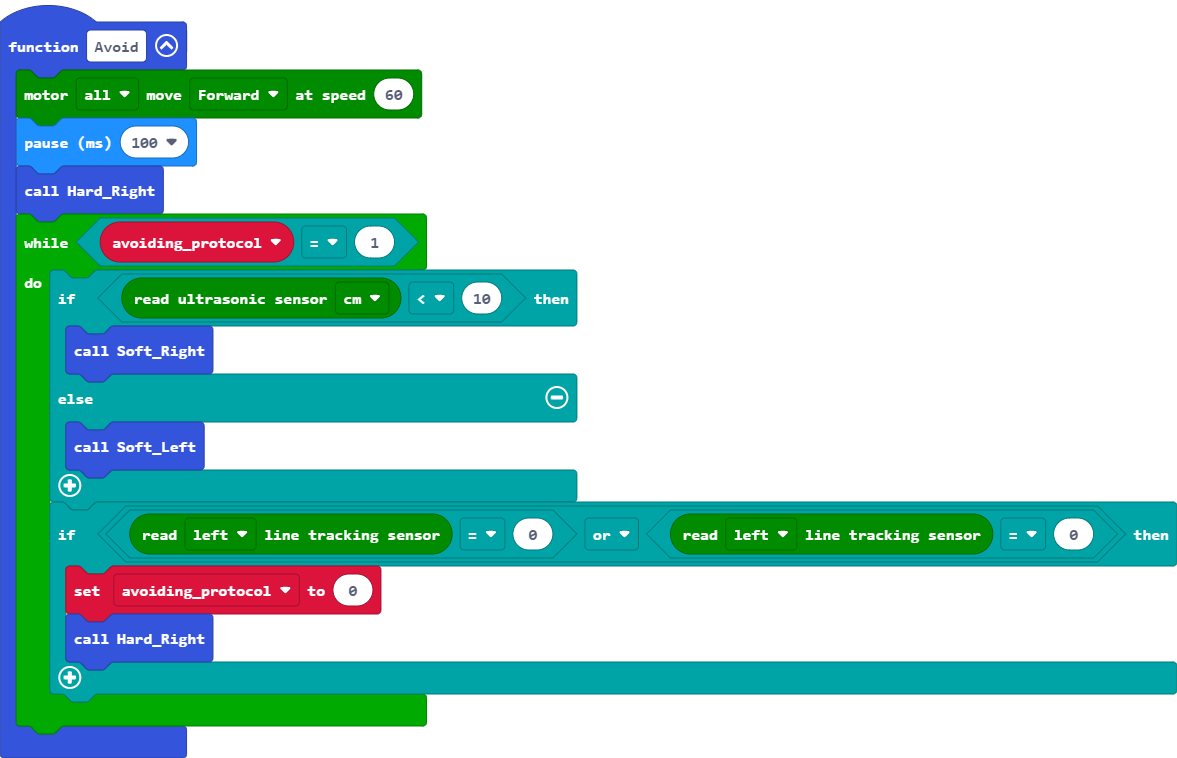
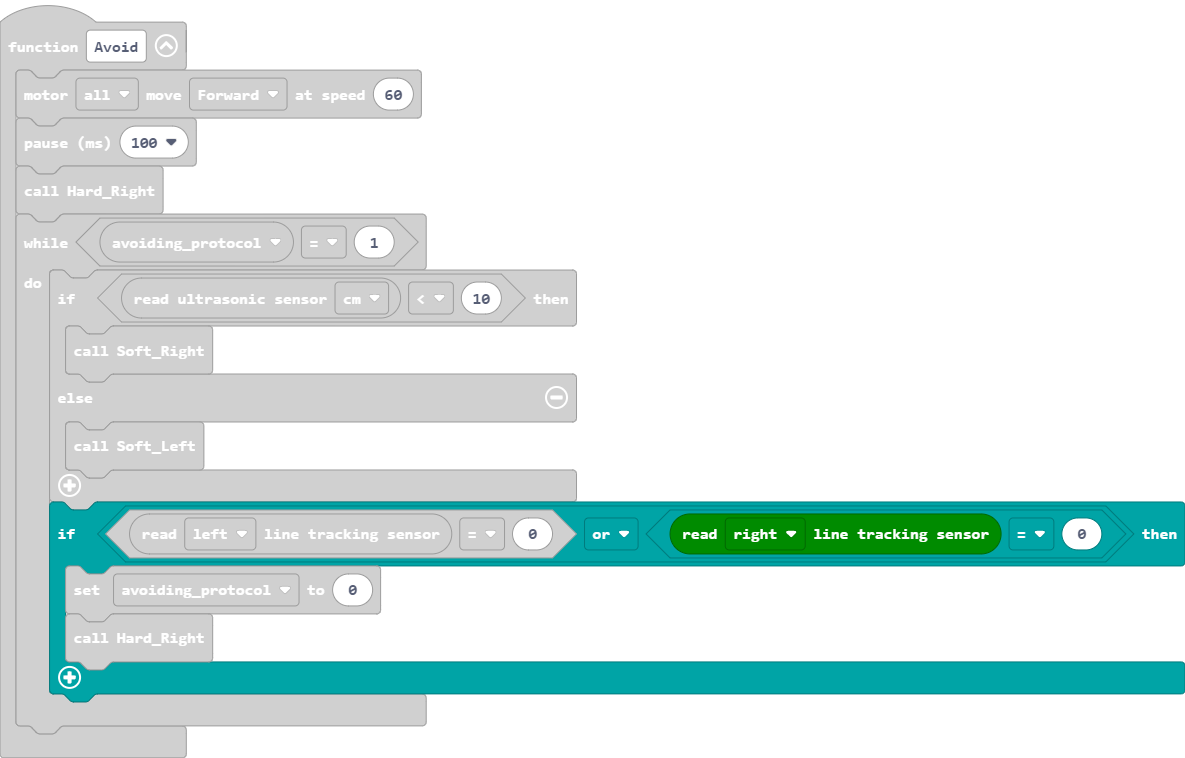
Update main.blocks, main.ts

Changed region(s): [[0.0, 0.0, 0.8564, 1.0], [0.9482, 0.6979, 1.0, 0.7282], [0.887, 0.6979, 0.9176, 0.7282]]

diff --git a/main.ts b/main.ts
@@ -42,7 +42,7 @@ function Avoid () {
         } else {
             Soft_Left()
         }
-        if (maqueen.readPatrol(maqueen.Patrol.PatrolLeft) == 0 || maqueen.readPatrol(maqueen.Patrol.PatrolLeft) == 0) {
+        if (maqueen.readPatrol(maqueen.Patrol.PatrolLeft) == 0 || maqueen.readPatrol(maqueen.Patrol.PatrolRight) == 0) {
             avoiding_protocol = 0
             Hard_Right()
         }
